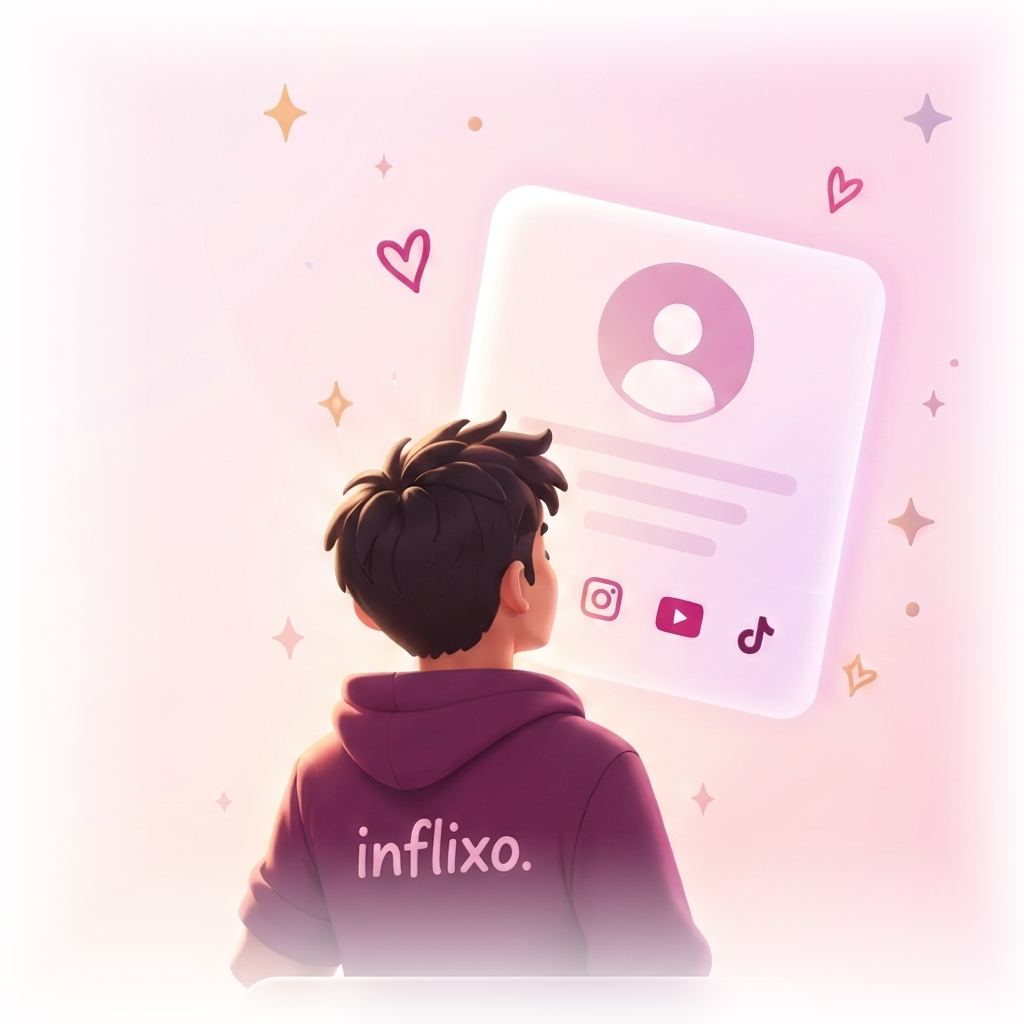
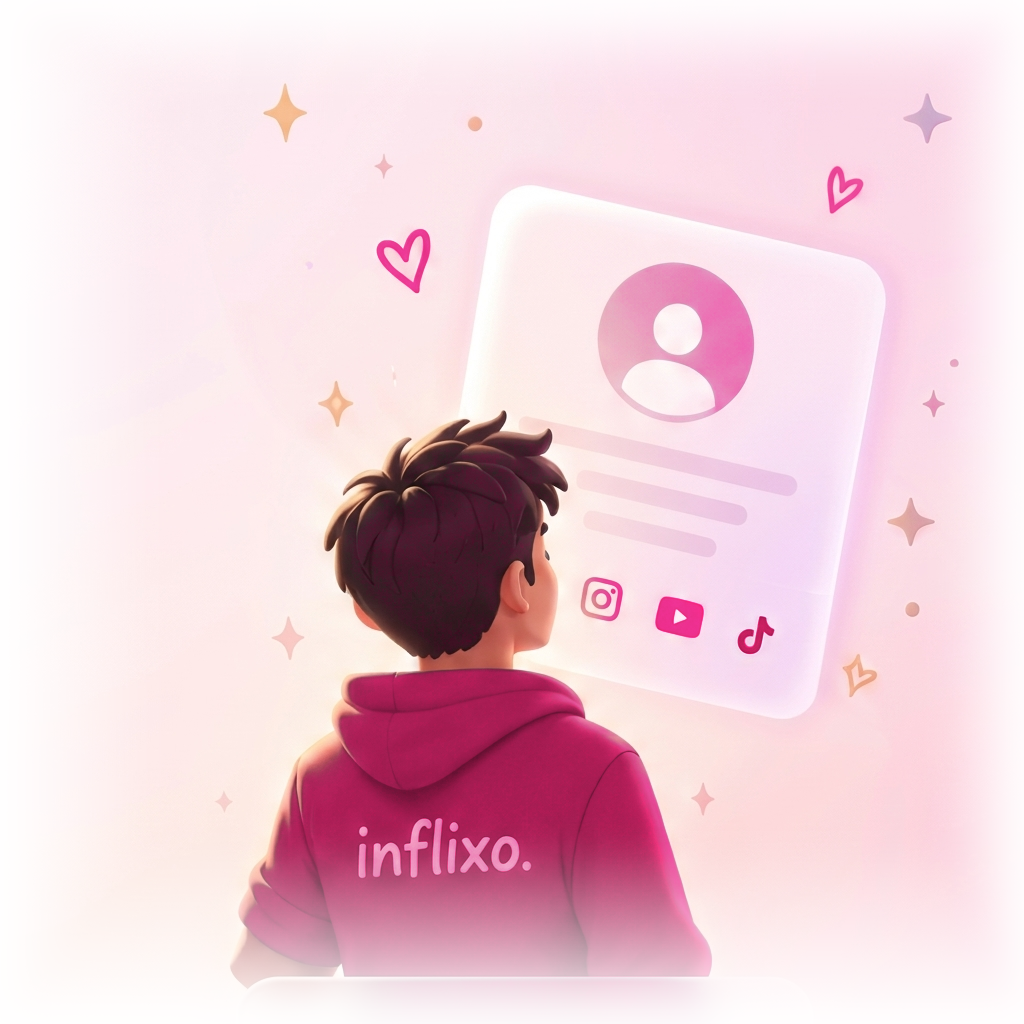
style(brand): remove the last maroon (themes, layouts, emails, images)
- Inflixo's brand theme (id inflixo-maroon, was 'Jamun') is now
  'Gulaal': kesar to gulaal gradient page, gulaal accents; passes the
  contrast check. Kajal's avatar ring follows the brand gradient
- Auth / onboarding side layouts, OTP and creator email templates, the
  creators HTML template and theme animation colours moved to gulaal
- Trial-expired illustrations: only the maroon hoodie and accents are
  recoloured to gulaal (hair and skin untouched)
Remaining magenta hits are other brands (Instagram #bc1888, Meesho).

diff --git a/public/templates/india-creators-100k.html b/public/templates/india-creators-100k.html
@@ -8,7 +8,7 @@
 </head>
 
 <body
-  style="margin: 0; padding: 0; background-color: #FAFAFC; font-family: -apple-system, BlinkMacSystemFont, 'Segoe UI', Roboto, Helvetica, Arial, sans-serif; color: #7A2253;">
+  style="margin: 0; padding: 0; background-color: #FAFAFC; font-family: -apple-system, BlinkMacSystemFont, 'Segoe UI', Roboto, Helvetica, Arial, sans-serif; color: #C21B5C;">
   <table role="presentation" width="100%" cellspacing="0" cellpadding="0" border="0"
     style="background-color: #FAFAFC; padding: 32px 16px;">
     <tr>
@@ -69,7 +69,7 @@
                               style="width: 24px; height: 24px; border-radius: 10px; background: linear-gradient(135deg, #782BFB, #500CD6); color: #FFFFFF; font-weight: 800; font-size: 11px; text-align: center; line-height: 24px;">
                               I
                             </td>
-                            <td style="padding-left: 8px; font-size: 13px; font-weight: 900; color: #7A2253;">
+                            <td style="padding-left: 8px; font-size: 13px; font-weight: 900; color: #C21B5C;">
                               Inflixo
                             </td>
                           </tr>
@@ -94,7 +94,7 @@
                 </div>
 
                 <!-- Name -->
-                <h3 style="margin: 14px 0 4px 0; font-size: 20px; font-weight: 900; color: #7A2253;">
+                <h3 style="margin: 14px 0 4px 0; font-size: 20px; font-weight: 900; color: #C21B5C;">
                   Tony Stark
                 </h3>
 
@@ -121,7 +121,7 @@
                 <!-- Clean Sober Fanbase Card -->
                 <div
                   style="background-color: #FAF5FF; border: 1px solid #E9D5FF; border-radius: 20px; padding: 14px; margin-bottom: 16px; text-align: center;">
-                  <p style="margin: 0; font-size: 22px; font-weight: 900; color: #7A2253;">
+                  <p style="margin: 0; font-size: 22px; font-weight: 900; color: #C21B5C;">
                     ❤ 20.5M
                   </p>
                   <p
@@ -143,12 +143,12 @@
                         </div>
                       </td>
                       <td style="padding-left: 12px; text-align: left; vertical-align: middle;">
-                        <p style="margin: 0; font-size: 13px; font-weight: 900; color: #7A2253;">Instagram</p>
+                        <p style="margin: 0; font-size: 13px; font-weight: 900; color: #C21B5C;">Instagram</p>
                         <p style="margin: 1px 0 0 0; font-size: 11px; font-weight: 600; color: #64748B;">@tonystark</p>
                       </td>
                       <td align="right" style="vertical-align: middle;">
                         <div style="text-align: right; display: inline-block;">
-                          <p style="margin: 0; font-size: 13px; font-weight: 900; color: #7A2253;">4.8M</p>
+                          <p style="margin: 0; font-size: 13px; font-weight: 900; color: #C21B5C;">4.8M</p>
                           <p
                             style="margin: 1px 0 0 0; font-size: 9px; font-weight: 800; color: #64748B; text-transform: uppercase;">
                             Followers</p>
@@ -172,13 +172,13 @@
                         </div>
                       </td>
                       <td style="padding-left: 12px; text-align: left; vertical-align: middle;">
-                        <p style="margin: 0; font-size: 13px; font-weight: 900; color: #7A2253;">YouTube</p>
+                        <p style="margin: 0; font-size: 13px; font-weight: 900; color: #C21B5C;">YouTube</p>
                         <p style="margin: 1px 0 0 0; font-size: 11px; font-weight: 600; color: #64748B;">Stark Tech
                           Vlogs</p>
                       </td>
                       <td align="right" style="vertical-align: middle;">
                         <div style="text-align: right; display: inline-block;">
-                          <p style="margin: 0; font-size: 13px; font-weight: 900; color: #7A2253;">12.5M</p>
+                          <p style="margin: 0; font-size: 13px; font-weight: 900; color: #C21B5C;">12.5M</p>
                           <p
                             style="margin: 1px 0 0 0; font-size: 9px; font-weight: 800; color: #64748B; text-transform: uppercase;">
                             Subscribers</p>
@@ -202,12 +202,12 @@
                         </div>
                       </td>
                       <td style="padding-left: 12px; text-align: left; vertical-align: middle;">
-                        <p style="margin: 0; font-size: 13px; font-weight: 900; color: #7A2253;">Facebook</p>
+                        <p style="margin: 0; font-size: 13px; font-weight: 900; color: #C21B5C;">Facebook</p>
                         <p style="margin: 1px 0 0 0; font-size: 11px; font-weight: 600; color: #64748B;">@tonystark</p>
                       </td>
                       <td align="right" style="vertical-align: middle;">
                         <div style="text-align: right; display: inline-block;">
-                          <p style="margin: 0; font-size: 13px; font-weight: 900; color: #7A2253;">3.2M</p>
+                          <p style="margin: 0; font-size: 13px; font-weight: 900; color: #C21B5C;">3.2M</p>
                           <p
                             style="margin: 1px 0 0 0; font-size: 9px; font-weight: 800; color: #64748B; text-transform: uppercase;">
                             Followers</p>
@@ -239,7 +239,7 @@
 
                     <!-- 16:9 Widescreen Series Poster Banner -->
                     <div
-                      style="position: relative; width: 100%; height: 180px; background-color: #7A2253; overflow: hidden; border-bottom: 1px solid #E2E8F0;">
+                      style="position: relative; width: 100%; height: 180px; background-color: #C21B5C; overflow: hidden; border-bottom: 1px solid #E2E8F0;">
                       <img
                         src="https://images.unsplash.com/photo-1518770660439-4636190af475?auto=format&fit=crop&w=600&q=80"
                         alt="Iron Tech Series Poster"
@@ -253,7 +253,7 @@
 
                     <!-- Series Details Below Poster -->
                     <div style="padding: 16px;">
-                      <h3 style="margin: 0 0 6px 0; font-size: 16px; font-weight: 900; color: #7A2253;">
+                      <h3 style="margin: 0 0 6px 0; font-size: 16px; font-weight: 900; color: #C21B5C;">
                         Iron Tech Series
                       </h3>
 
@@ -299,7 +299,7 @@
                               </div>
                             </td>
                             <td style="padding-left: 8px; vertical-align: middle; text-align: left;">
-                              <p style="margin: 0; font-size: 11.5px; font-weight: 800; color: #7A2253;">E01 • Part 01:
+                              <p style="margin: 0; font-size: 11.5px; font-weight: 800; color: #C21B5C;">E01 • Part 01:
                                 Arc Reactor Tech</p>
                               <p style="margin: 1px 0 0 0; font-size: 9.5px; font-weight: 600; color: #64748B;">YouTube
                               </p>
@@ -321,7 +321,7 @@
                               </div>
                             </td>
                             <td style="padding-left: 8px; vertical-align: middle; text-align: left;">
-                              <p style="margin: 0; font-size: 11.5px; font-weight: 800; color: #7A2253;">E02 • Part 02:
+                              <p style="margin: 0; font-size: 11.5px; font-weight: 800; color: #C21B5C;">E02 • Part 02:
                                 Building Mark I</p>
                               <p style="margin: 1px 0 0 0; font-size: 9.5px; font-weight: 600; color: #64748B;">YouTube
                               </p>
@@ -343,7 +343,7 @@
                               </div>
                             </td>
                             <td style="padding-left: 8px; vertical-align: middle; text-align: left;">
-                              <p style="margin: 0; font-size: 11.5px; font-weight: 800; color: #7A2253;">E03 • Part 03:
+                              <p style="margin: 0; font-size: 11.5px; font-weight: 800; color: #C21B5C;">E03 • Part 03:
                                 J.A.R.V.I.S AI System</p>
                               <p style="margin: 1px 0 0 0; font-size: 9.5px; font-weight: 600; color: #64748B;">YouTube
                               </p>
@@ -365,7 +365,7 @@
                               </div>
                             </td>
                             <td style="padding-left: 8px; vertical-align: middle; text-align: left;">
-                              <p style="margin: 0; font-size: 11.5px; font-weight: 800; color: #7A2253;">E04 • Part 04:
+                              <p style="margin: 0; font-size: 11.5px; font-weight: 800; color: #C21B5C;">E04 • Part 04:
                                 Nanotech Flight Test</p>
                               <p style="margin: 1px 0 0 0; font-size: 9.5px; font-weight: 600; color: #64748B;">YouTube
                               </p>

diff --git a/themes/config.ts b/themes/config.ts
@@ -110,54 +110,55 @@ export type ThemeInput = Omit<ThemeDefinition, "tokens"> & {
 /** Same family as the dashboard; --font-indic keeps Indian scripts rendering. */
 const DASHBOARD_FONT = "var(--font-poppins), 'Poppins', var(--font-indic), system-ui, sans-serif";
 
+/** Inflixo's brand theme (id kept for saved profiles): the Kesar Gulaal gradient. */
 export const INFLIXO_MAROON: ThemeDefinition = {
   id: "inflixo-maroon",
-  name: "Jamun",
+  name: "Gulaal",
   tokens: {
-    "--page-bg": "linear-gradient(160deg, #7A2253 0%, #4A1232 100%)",
+    "--page-bg": "linear-gradient(160deg, #FF6A1A 0%, #E8246F 55%, #A3164E 100%)",
     "--page-overlay": "none",
     "--on-page-text": "#FFFFFF",
     // Card tinted with the accent (5% / 9% / 16% / 18%); no pure white in the card.
-    "--card-bg": "color-mix(in srgb, #7A2253 5%, #FFFFFF)",
-    "--card-border": "color-mix(in srgb, #7A2253 18%, #FFFFFF)",
-    "--card-shadow": "0 20px 60px rgba(40,8,26,.35)",
+    "--card-bg": "color-mix(in srgb, #C21B5C 5%, #FFFFFF)",
+    "--card-border": "color-mix(in srgb, #C21B5C 18%, #FFFFFF)",
+    "--card-shadow": "0 20px 60px rgba(90,15,40,.30)",
     "--card-radius": "24px",
-    "--surface": "color-mix(in srgb, #7A2253 9%, #FFFFFF)",
-    "--surface-border": "color-mix(in srgb, #7A2253 16%, #FFFFFF)",
-    "--text": "#1A1218",
-    "--text-muted": "#6B5A64",
-    "--accent": "#7A2253",
-    "--accent-hover": "#63193F",
+    "--surface": "color-mix(in srgb, #C21B5C 9%, #FFFFFF)",
+    "--surface-border": "color-mix(in srgb, #C21B5C 16%, #FFFFFF)",
+    "--text": "#1C1917",
+    "--text-muted": "#6E5C60",
+    "--accent": "#C21B5C",
+    "--accent-hover": "#A3164E",
     "--on-accent": "#FFFFFF",
-    "--accent-soft": "#F5E9EF",
-    "--divider": "rgba(122,34,83,.16)",
-    "--tab-active": "#7A2253",
-    "--tab-inactive": "#6B5A64",
-    "--tab-indicator": "#7A2253",
+    "--accent-soft": "#FFEDE6",
+    "--divider": "rgba(194,27,92,.16)",
+    "--tab-active": "#C21B5C",
+    "--tab-inactive": "#6E5C60",
+    "--tab-indicator": "#C21B5C",
     "--font-heading": DASHBOARD_FONT,
     "--font-body": DASHBOARD_FONT,
     "--logo-variant": "dark",
-    "--logo-bg": "#7A2253",
+    "--logo-bg": "#C21B5C",
     "--logo-fg": "#FFFFFF",
-    "--wordmark": "#7A2253",
-    "--icon": "#6B5A64",
-    "--icon-active": "#7A2253",
-    "--avatar-bg": "#7A2253",
+    "--wordmark": "#C21B5C",
+    "--icon": "#6E5C60",
+    "--icon-active": "#C21B5C",
+    "--avatar-bg": "#C21B5C",
     "--avatar-text": "#FFFFFF",
-    "--avatar-ring": "linear-gradient(135deg,#F5B8D4,#7A2253)",
+    "--avatar-ring": "linear-gradient(135deg,#FF6A1A,#E8246F)",
     "--nav-shadow": "0 2px 8px rgba(0,0,0,.06)",
     "--nav-shadow-scrolled": "0 4px 12px rgba(0,0,0,.10)",
-    "--cover-from": "#7A2253",
-    "--cover-to": "#3F0E2A",
+    "--cover-from": "#FF6A1A",
+    "--cover-to": "#A3164E",
     "--page-anim": "none",
     "--card-blur": "0px",
     "--accent-text": "var(--accent)",
   },
   listing: {
     group: "basics",
-    subtitle: "Rich & bold",
-    swatches: ["#7A2253", "#FFFFFF", "#F5E9EF"],
-    thumbnail: "linear-gradient(160deg, #7A2253 0%, #4A1232 100%)",
+    subtitle: "Kesar to gulaal",
+    swatches: ["#C21B5C", "#FFFFFF", "#FFEDE6"],
+    thumbnail: "linear-gradient(160deg, #FF6A1A 0%, #E8246F 55%, #A3164E 100%)",
   },
 };
 
@@ -295,7 +296,7 @@ export const KAJAL: ThemeDefinition = {
     "--icon-active": "#F5B8D4",
     "--avatar-bg": "#2A1E26",
     "--avatar-text": "#F5B8D4",
-    "--avatar-ring": "linear-gradient(135deg,#F5B8D4,#7A2253)",
+    "--avatar-ring": "linear-gradient(135deg,#FF6A1A,#E8246F)",
     "--nav-shadow": "0 2px 8px rgba(0,0,0,.4)",
     "--nav-shadow-scrolled": "0 4px 12px rgba(0,0,0,.5)",
     "--cover-from": "#2A1E26",
@@ -655,7 +656,7 @@ export function themeTokenStyle(id: string | null | undefined): CSSProperties {
 }
 
 /**
- * Brand (Jamun) theme tokens for shared widgets rendered outside a profile root (e.g. avatars in the dashboard).
+ * Brand (Gulaal) theme tokens for shared widgets rendered outside a profile root (e.g. avatars in the dashboard).
  * `:where(:root)` has zero specificity, so where a name is also part of the dashboard design system
  * (--surface, --text-muted, --page-bg, --card-shadow in globals.css) the dashboard value still wins
  * outside the profile. Profile roots set every token inline, which overrides both.

diff --git a/data/creatorEmailTemplates.ts b/data/creatorEmailTemplates.ts
@@ -117,17 +117,17 @@ export function formatEmailBodyToHtml(text: string): string {
 
   const formatted = text
     // Replace Markdown headers ###
-    .replace(/^### (.*$)/gim, '<h3 style="color: #7A2253; font-size: 16px; font-weight: 800; margin: 20px 0 10px 0;">$1</h3>')
+    .replace(/^### (.*$)/gim, '<h3 style="color: #C21B5C; font-size: 16px; font-weight: 800; margin: 20px 0 10px 0;">$1</h3>')
     // Bold text **text**
     .replace(/\*\*(.*?)\*\*/g, '<strong>$1</strong>')
     // Italic text *text*
     .replace(/\*(.*?)\*/g, '<em style="color: #64748B;">$1</em>')
     // Links [text](url)
-    .replace(/\[(.*?)\]\((.*?)\)/g, '<a href="$2" target="_blank" style="color: #7A2253; font-weight: 700; text-decoration: underline;">$1</a>')
+    .replace(/\[(.*?)\]\((.*?)\)/g, '<a href="$2" target="_blank" style="color: #C21B5C; font-weight: 700; text-decoration: underline;">$1</a>')
     // Plain URLs (if not inside href)
     .replace(/(https?:\/\/[^\s<]+)/g, (url) => {
       if (url.includes('href=')) return url;
-      return `<a href="${url}" target="_blank" style="color: #7A2253; font-weight: 700; text-decoration: underline;">${url}</a>`;
+      return `<a href="${url}" target="_blank" style="color: #C21B5C; font-weight: 700; text-decoration: underline;">${url}</a>`;
     });
 
   // Split into paragraphs by double linebreaks
@@ -139,7 +139,7 @@ export function formatEmailBodyToHtml(text: string): string {
       return '<hr style="border: none; border-top: 1px solid #E2E8F0; margin: 24px 0;" />';
     }
     if (trimmed.includes("👉")) {
-      return `<div style="background-color: #F8FAFC; border: 1.5px solid #E2E8F0; border-radius: 12px; padding: 14px 16px; margin: 16px 0; color: #7A2253; font-weight: 600;">${trimmed.replace(/\n/g, "<br/>")}</div>`;
+      return `<div style="background-color: #F8FAFC; border: 1.5px solid #E2E8F0; border-radius: 12px; padding: 14px 16px; margin: 16px 0; color: #C21B5C; font-weight: 600;">${trimmed.replace(/\n/g, "<br/>")}</div>`;
     }
     return `<p style="margin: 0 0 14px 0; line-height: 1.6; color: #1E293B; font-size: 14px;">${trimmed.replace(/\n/g, "<br/>")}</p>`;
   });

diff --git a/layouts/OnboardingLayout.tsx b/layouts/OnboardingLayout.tsx
@@ -108,7 +108,7 @@ export function OnboardingLayout({
             )}
             <button
               onClick={handleSaveAndLogout}
-              className="tap-scale flex shrink-0 items-center gap-1.5 rounded-full border border-[#e2e8f0] bg-white px-2.5 py-1 text-xs font-bold text-[#475569] transition-all hover:border-[#cbd5e1] hover:bg-[#f8fafc] hover:text-[#7A2253] shadow-2xs cursor-pointer"
+              className="tap-scale flex shrink-0 items-center gap-1.5 rounded-full border border-[#e2e8f0] bg-white px-2.5 py-1 text-xs font-bold text-[#475569] transition-all hover:border-[#cbd5e1] hover:bg-[#f8fafc] hover:text-[#C21B5C] shadow-2xs cursor-pointer"
             >
               <LogOut className="h-3.5 w-3.5 text-[#64748b]" />
               <span className="hidden sm:inline">Save &amp; logout</span>
@@ -188,7 +188,7 @@ export function OnboardingLayout({
               <button
                 type="button"
                 onClick={() => setIsMobilePreviewOpen(false)}
-                className="w-full rounded-xl bg-[#7A2253] hover:opacity-95 py-3 text-xs font-bold text-white transition-all cursor-pointer text-center shadow-md shadow-[#7A2253]/20"
+                className="w-full rounded-xl bg-[#C21B5C] hover:opacity-95 py-3 text-xs font-bold text-white transition-all cursor-pointer text-center shadow-md shadow-[#C21B5C]/20"
               >
                 Back to Editing Form
               </button>

diff --git a/server/services/emailService.js b/server/services/emailService.js
@@ -49,8 +49,8 @@ async function sendOtpEmail(toEmail, otpCode) {
           </p>
 
           <!-- 4-Digit Code Box -->
-          <div style="background-color: #FAF5F7; border: 1.5px dashed #7A2253; border-radius: 5px; padding: 18px; margin-bottom: 18px;">
-            <span style="font-size: 38px; font-weight: 900; letter-spacing: 14px; color: #7A2253; font-family: 'Courier New', Courier, monospace; line-height: 1; padding-left: 14px;">
+          <div style="background-color: #FFF6F2; border: 1.5px dashed #C21B5C; border-radius: 5px; padding: 18px; margin-bottom: 18px;">
+            <span style="font-size: 38px; font-weight: 900; letter-spacing: 14px; color: #C21B5C; font-family: 'Courier New', Courier, monospace; line-height: 1; padding-left: 14px;">
               ${otpCode}
             </span>
           </div>

diff --git a/layouts/AuthSplitLayout.tsx b/layouts/AuthSplitLayout.tsx
@@ -23,7 +23,7 @@ export function AuthSplitLayout({ children }: { children: ReactNode }) {
       </div>
 
       {/* Right / visual column */}
-      <div className="relative hidden flex-1 overflow-hidden lg:block bg-[#7A2253]">
+      <div className="relative hidden flex-1 overflow-hidden lg:block bg-[#C21B5C]">
         {/* Glow ambient background orbs */}
         <div className="absolute top-1/4 left-1/4 h-96 w-96 rounded-full bg-white/10 blur-3xl pointer-events-none animate-blob" />
         <div className="absolute bottom-10 right-10 h-80 w-80 rounded-full bg-white/5 blur-3xl pointer-events-none animate-blob" />

diff --git a/components/theme/ThemeBackgroundAnim.tsx b/components/theme/ThemeBackgroundAnim.tsx
@@ -119,7 +119,7 @@ function pieces(name: string): Piece[] {
       }));
     }
     case "confetti": {
-      const colours = ["#7A2253", "#F5B8D4", "#FACC15", "#22D3EE", "#A3E635", "#BE185D"];
+      const colours = ["#C21B5C", "#F5B8D4", "#FACC15", "#22D3EE", "#A3E635", "#BE185D"];
       return make(25, (i) => ({
         className: "tba-confetti",
         style: {

diff --git a/components/theme/AmbientAnimation.tsx b/components/theme/AmbientAnimation.tsx
@@ -152,7 +152,7 @@ const DETERMINISTIC_SHAPES = [
 
 export const AmbientAnimation = memo(function AmbientAnimation({
   type = "floating-particles",
-  colors = ["#7A2253", "#C084FC", "#60A5FA"],
+  colors = ["#C21B5C", "#C084FC", "#60A5FA"],
   themeKey,
   contained = false,
 }: AmbientAnimationProps) {

diff --git a/components/theme/AmbientParticles.tsx b/components/theme/AmbientParticles.tsx
@@ -36,7 +36,7 @@ const DETERMINISTIC_PARTICLES = [
 ];
 
 export const AmbientParticles = memo(function AmbientParticles({
-  particleColors = ["#7A2253", "#C084FC", "#60A5FA"],
+  particleColors = ["#C21B5C", "#C084FC", "#60A5FA"],
   themeKey,
   contained = false,
 }: AmbientParticlesProps) {
